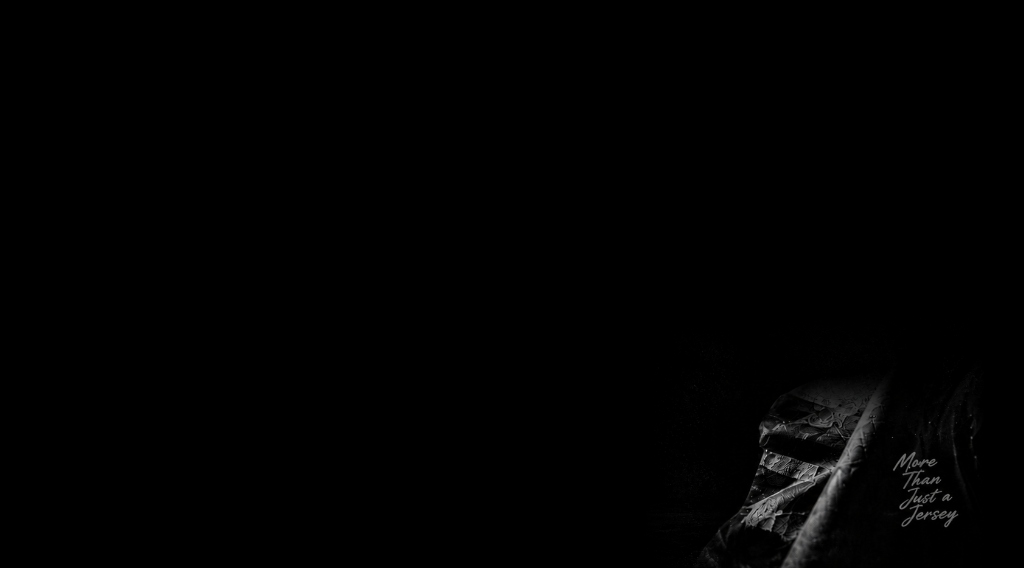
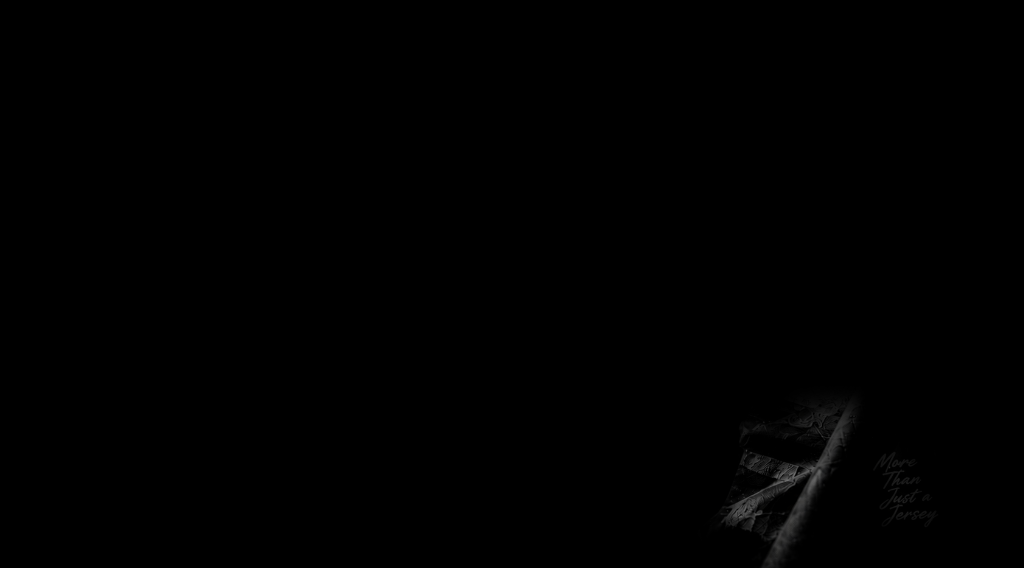
feat(hero): blend background drapery edges organically and lower jersey position

Changed region(s): [[0.6875, 0.6884, 0.875, 1.0], [0.875, 0.7782, 0.9375, 0.9278]]

diff --git a/jersey-store/src/components/home/EditorialHero.tsx b/jersey-store/src/components/home/EditorialHero.tsx
@@ -218,7 +218,7 @@ export const EditorialHero: React.FC = () => {
           {/* ============================================================
               CENTER COLUMN: Unboxed Jersey (Dominant Scale & Placement)
              ============================================================ */}
-          <div className="lg:col-span-4 relative flex items-center justify-center min-h-[480px] sm:min-h-[540px] lg:translate-x-8 xl:translate-x-12">
+          <div className="lg:col-span-4 relative flex items-center justify-center min-h-[480px] sm:min-h-[540px] translate-y-5 sm:translate-y-7 lg:translate-y-6 lg:translate-x-8 xl:translate-x-12">
             
             {/* Parallax 3D Container for Jersey Centerpiece */}
             <motion.div
